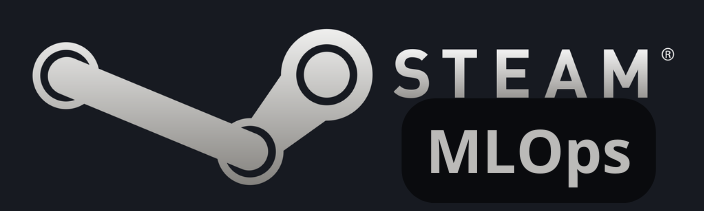
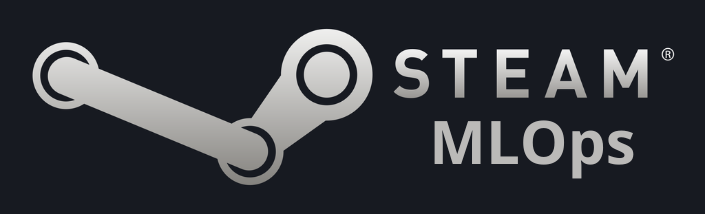
Subiendo el Readme

diff --git a/README.md b/README.md
@@ -8,6 +8,8 @@
 
 # Proyecto MLOPs: Sistema de Recomendación VideoJuegos
 
+![Portada](https://github.com/edwinpro/MLOps_videogames/blob/main/images/MLOps.png?raw=true)
+
 ## Introducción
 
 El desafío del presente proyecto implica desempeñar el rol combinado de un ingeniero MLOps, que une las funciones de un ingeniero de datos y un científico de datos, para la famosa plataforma de juegos, Steam. El objetivo es crear un Producto Mínimo Viable que incluya una API desplegada en la nube y la implementación de dos modelos de Machine Learning. Estos modelos tienen la tarea de realizar un análisis de sentimientos sobre las opiniones de los usuarios en los juegos, además de recomendar juegos basados en el nombre de un juego específico o en las preferencias de un usuario en particular.
